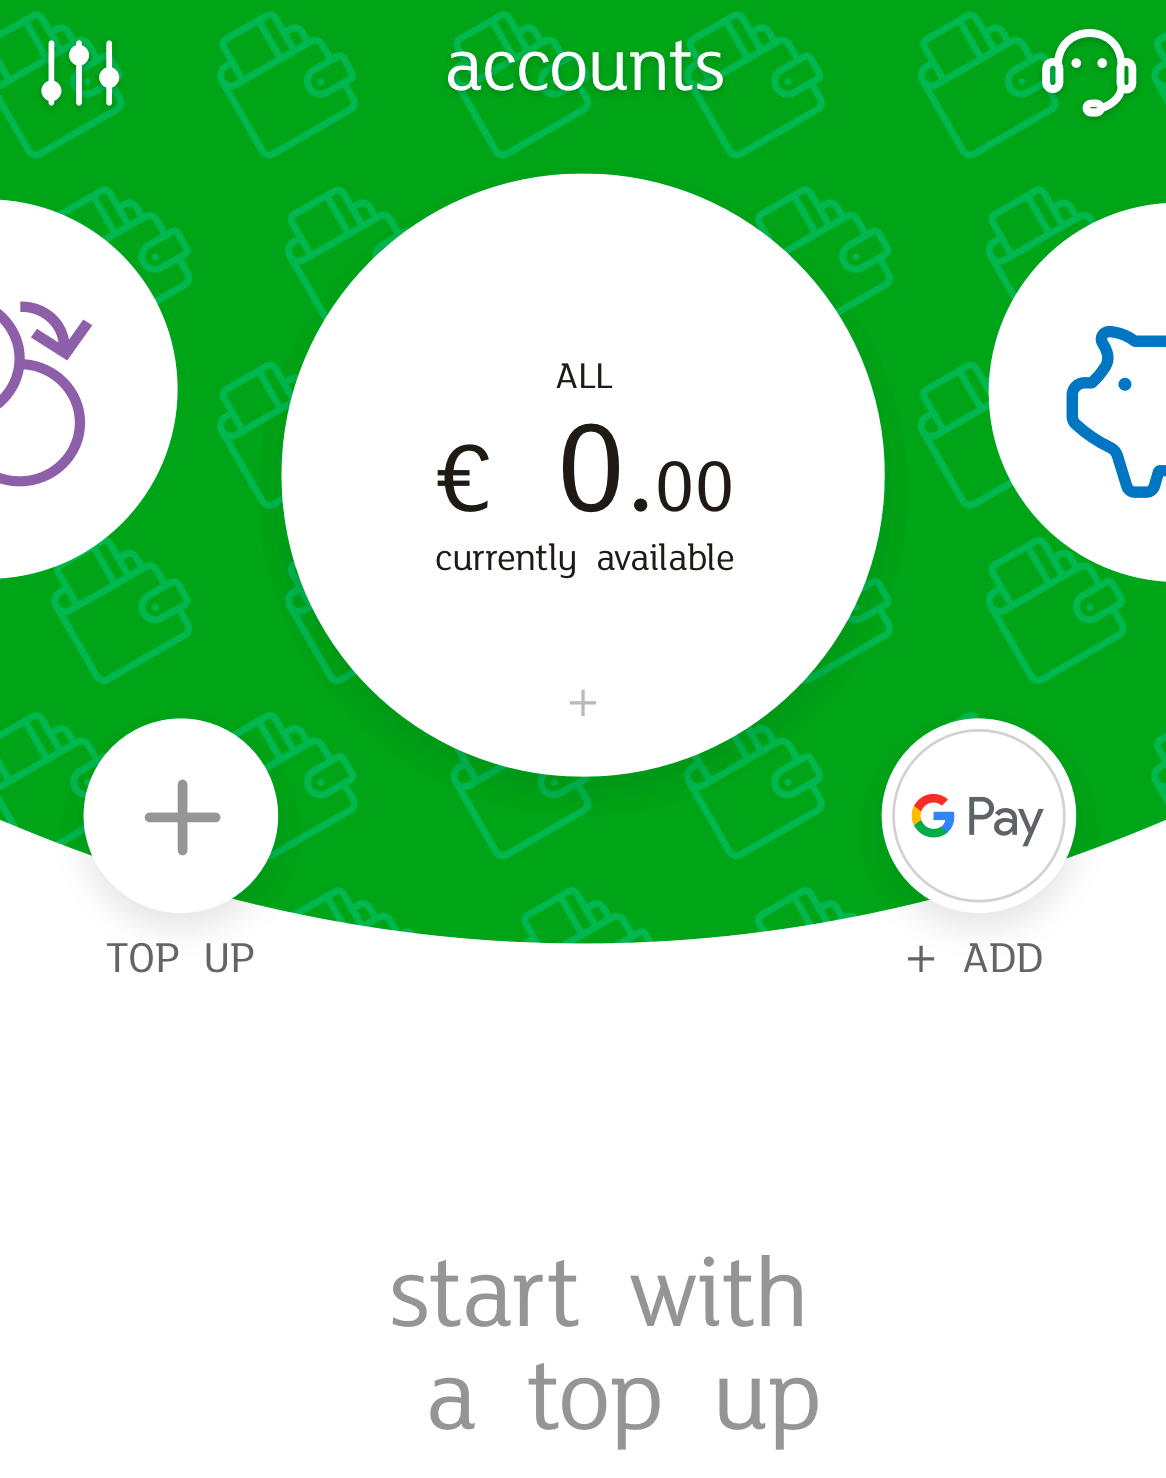
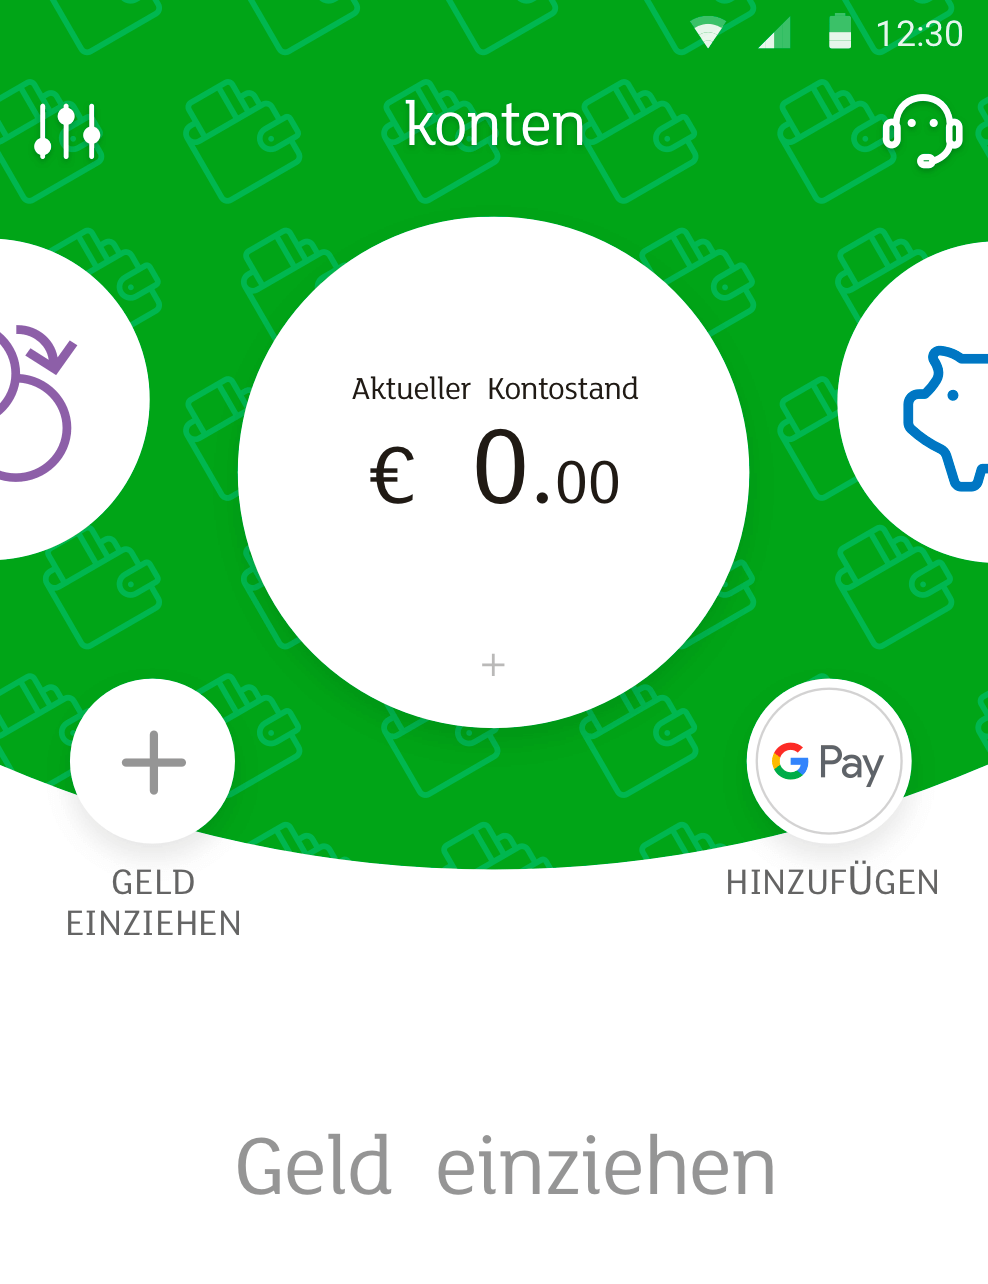
Last (?) fixes

diff --git a/src/text/german.js b/src/text/german.js
@@ -5,8 +5,8 @@ export default {
     skip: 'Überspringen',
     okay: 'Okay',
     residentialAddress: 'Wohnanschrift',
-    correspondenceAddress: 'Korrespondenzanschrift',
-    phoneNumber: 'Telefonnummer',
+    correspondenceAddress: 'Abweichende Postadresse',
+    phoneNumber: 'Handynummer',
     emailAddress: 'E-Mail Adresse',
     birthDate: 'Geburtsdatum',
     birthPlace: 'Geburtsort',
@@ -27,7 +27,7 @@ export default {
     germany: 'Deutschland',
     continue: 'Fortsetzen',
     thanks: 'Danke!',
-    start: 'Lasst uns anfangen!',
+    start: 'Lass uns anfangen!',
     read: 'Lesen',
     enter: 'Eingeben',
     validationCode: 'Validierungscode'
@@ -58,7 +58,7 @@ export default {
     },
     step1: {
       intro: {
-        0: 'Eröffne dein Meine Finanzen  Konto in 3 einfachen Schritten und beginne mit…'
+        0: 'Eröffne dein Meine Finanzen Konto in 3 einfachen Schritten und beginne mit…'
       },
       name: {
         0: 'Bitte erzähle uns etwas über dich',
@@ -71,7 +71,7 @@ export default {
       },
       contact: {
         0: 'Wir benötigen deine Kontaktinformationen',
-        1: 'Deine Telefonnummer und E-Mail Adresse werden für die Registrierung gebraucht'
+        1: 'Deine Handynummer und E-Mail Adresse werden für die Registrierung benötigt'
       },
       birth: {
         0: 'Bitte gib folgende Daten ein…',
@@ -84,7 +84,7 @@ export default {
         4: 'Hausnummer'
       },
       correspondenceAddress: {
-        0: 'Füge deine Korrespondenzanschrift hinzu'
+        0: 'Füge (falls notwendig) eine abweichende Postadresse hinzu'
       },
       taxInformation: {
         0: 'Möchtest du deine Steuerinformationen angeben?',
@@ -98,14 +98,14 @@ export default {
         0: 'Was machst du beruflich?',
         1: 'Wir müssen dir die Frage erneut aus rechtlichen Gründen stellen',
         2: 'Wähle deinen derzeit ausgeübten Beruf aus',
-        3: 'und in welcher Branche arbeitest du',
+        3: 'und in welcher Branche arbeitest du?',
         roles: ['Geschäftsstellenleiter', 'Creative director', 'Produktmanager']
       },
       industry: {
         0: 'In welcher Branche arbeitest du?',
         1: 'Das ist die letzte Frage!',
         2: '+ Weitere Optionen',
-        3: 'Wir benötigen dies aus rechtlichen Gründen',
+        3: 'Wir benötigen diese Information aus rechtlichen Gründen',
         industries: ['Keine Angabe', 'Finanzen', 'Fertigungsindustrie', 'Tourismus']
       },
       review: {
@@ -121,11 +121,11 @@ export default {
         6: 'Datenschutz-Grundverordnung'
       },
       finish: {
-        0: 'Geschafft! Lass und jetzt dein Meine Finanzen  Konto eröffnen!',
+        0: 'Geschafft! Lass und jetzt dein Meine Finanzen Konto eröffnen!',
         1: 'Unten findest du den Link zu deinem Kontovertrag.',
         2: 'Du musst ihn jetzt nicht herunterladen, wir haben ihn dir bereits per E-Mail geschickt',
         3: 'Lade den kompletten Meine Finanzen Kontovertrag herunter (PDF)',
-        4: 'Ich möchte ein Meine Finanzen  Konto eröffnen und bestätige, dass ich <em>für mich selbst handle</em>'
+        4: 'Ich möchte ein Meine Finanzen Konto eröffnen und bestätige, dass ich <em>für mich selbst handle</em>'
       }
     },
     step2: {
@@ -140,27 +140,27 @@ export default {
       },
       connecting: {
         0: 'Bitte warte einen Moment',
-        1: 'Wir stellen die Verbindung mit einem/einer unserer Berater(innen) her'
+        1: 'Wir stellen die Verbindung mit einem/einer unserer Experten her'
       },
       waiting: {
         0: 'Bitte warte einen Moment'
       },
       conversation: {
         0: 'Name und Foto',
-        1: 'Bitte schauen Sie in die Kamera und sagen Ihren Vor und Nachname.',
+        1: 'Bitte schaue in die Kamera und sage deinen Vor- und Nachnamen.',
         2: 'Vorderseite des Personalausweises',
-        3: 'Bitte halten sie die Vorderseite des Personalausweises in die Kamera, damit wir die Details lesen können.',
+        3: 'Bitte halte die Vorderseite des Personalausweises in die Kamera, damit wir die Details lesen können.',
         4: 'Rückseite des Personalausweises',
-        5: 'Bitte halten sie die Rückseite des Personalausweises in die Kamera, damit wir die Details lesen können.',
+        5: 'Bitte halte die Rückseite des Personalausweises in die Kamera, damit wir die Details lesen können.',
         6: 'Einen Moment bitte…',
-        7: 'Bitte warten sie kurz, da ein Experte deine Daten checkt.'
+        7: 'Bitte warte kurz, da ein Experte deine Daten checkt.'
       },
       smsCode: {
         0: 'Dein Validierungscode lautet {code}',
         1: 'SMS Code',
-        2: 'Abschließend musst du den Ident Code eingeben. Dieser Code wird als SMS an ihre Nummer geschickt.',
-        3: 'Haben sie die SMS erhalten?',
-        4: 'Wir können diesen Code nochmal schicken'
+        2: 'Abschließend musst du den Ident Code eingeben. Dieser Code wird als SMS an deine Nummer geschickt.',
+        3: 'Hast du die SMS erhalten?',
+        4: 'Wir können dir diesen Code nochmal schicken'
       },
       accountReady: {
         0: 'Dein neues Meine Finanzen Konto ist eröffnet!',
@@ -187,7 +187,7 @@ export default {
       passwordSetup: {
         title: 'Passwort Einstellungen',
         0: 'Wir benötigen deine Kontaktinformationen',
-        1: 'Du benötigst dieses Passwort um dich in deinen Account einzuloggen. Für eine sichere Passwortstärke verwendest du am besten mindestens 6 Buchstaben, einer davon sollte groß sein, Zeichen und Zahlen'
+        1: 'Du benötigst dieses Passwort, um dich in deinen Account einzuloggen. Für eine sichere Passwortstärke verwendest du am besten mindestens 6 Buchstaben, einer davon sollte groß sein, Sonderzeichen und Zahlen'
       },
       emailConfirm: {
         title: 'E-Mail Bestätigung',
@@ -201,27 +201,27 @@ export default {
       0: 'Persönliche Informationen',
       1: 'Video Identifikation',
       2: 'Kontoeröffnung',
-      3: 'Profil einsetzen',
+      3: 'Gesichtserkennung',
       4: 'Glückwunsch!'
     },
     other: {
       0: 'Eröffne das Konto in 8 Minuten!',
-      1: 'Gebe den 6-stelligen Code ein',
-      2: 'Wir haben es an folgende {phoneNumber} geschickt',
-      3: 'Warten sie {time} und wenn der Code nicht ankommt, senden wir ihnen einen neuen.',
+      1: 'Gib den 6-stelligen Code ein',
+      2: 'Wir haben ihn dir an folgende Handynummer {phoneNumber} geschickt',
+      3: 'Warte {time} und wenn der Code nicht ankommt, senden wir ihn dir erneut.',
       4: 'Code nochmal senden',
-      5: 'Bestätigen und Paaren',
+      5: 'Bestätigen',
       6: 'Zustimmung zur Datenverarbeitung',
-      7: 'Dies ist notwendig um ihnen den besten Service auch im Zusammenhang mit europäischen Gesetzen zu bieten',
+      7: 'Dies ist notwendig um dir den besten Service auch im Zusammenhang mit europäischen Gesetzen zu bieten',
       8: 'Bestätigung Marketing',
-      9: 'So bekommen Sie hochwertige Werbung ohne nötigen Spam!',
-      10: 'Um sicher zu sein, dass Sie sich am richtigen Ort eingeloggt werden Sie an Ihrem Profilbild erkannt.',
+      9: 'So erhälst du passende Werbung und keinen unnötigen Spam!',
+      10: 'Nehme nun ein Foto auf, damit du dich in Zukunft mittels Gesichtserkennung einloggen kannst.',
       11: 'Bitte lächeln!',
-      12: '{userName}, Ihr Mein Finanzen Konto ist jetzt bereit!',
-      13: 'Ihre Mastercard-Bankkarte ist  nun unterwegs zur Adresse, die Sie angegeben haben',
+      12: '{userName} Dein Mein Finanzen Konto ist jetzt bereit!',
+      13: 'Deine Mastercard-Bankkarte ist unterwegs zu der von die angegebenen Adresse',
       14: 'Los!',
       15: '{userName}, bevor wir anfangen',
-      16: 'Wählen Sie das Ausstellerland Ihres Ausweises'
+      16: 'Wähle das Ausstellerland deines Ausweises aus'
     }
   }
 }

diff --git a/src/text/english.js b/src/text/english.js
@@ -22,8 +22,8 @@ export default {
     confirmPassword: 'Confirm password',
     deny: 'Deny',
     allow: 'Allow',
-    allowLocation: 'Allow MeineFinanzen to access this device’s location?',
-    allowCamera: 'Allow MeineFinanzen app to take pictures and record video?',
+    allowLocation: 'Allow Meine Finanzen to access this device’s location?',
+    allowCamera: 'Allow Meine Finanzen app to take pictures and record video?',
     germany: 'Germany',
     continue: 'Continue',
     thanks: 'Thanks!',
@@ -40,7 +40,7 @@ export default {
     },
     usp: {
       0: 'Transfer money for free worldwide',
-      1: 'Send money abroad for free in realtime with MeineFinanzen. Transfer money to any bank, business or friend immediately.',
+      1: 'Send money abroad for free in realtime with Meine Finanzen. Transfer money to any bank, business or friend immediately.',
       2: 'ATM for free worldwide',
       3: 'Up to 500 Euro you can take cash from ATM for free in any country.',
       4: 'Multicurrency contactless',
@@ -58,7 +58,7 @@ export default {
     },
     step1: {
       intro: {
-        0: 'Get your new MeineFinanzen account in only 3 simple steps and start with…'
+        0: 'Get your new Meine Finanzen account in only 3 simple steps and start with…'
       },
       name: {
         0: 'Please tell us something about yourself',
@@ -115,17 +115,17 @@ export default {
         0: 'Almost done! Only a few consents left',
         1: 'Confirm all',
         2: 'Electronic communication',
-        3: 'Terms of Service of MeineFinanzen and IDNow',
-        4: 'Advertisement of MeineFinanzen partners',
+        3: 'Terms of Service of Meine Finanzen and IDNow',
+        4: 'Advertisement of Meine Finanzen partners',
         5: 'Data processing and usage',
         6: 'General Data Protection Regulation'
       },
       finish: {
-        0: 'Finally, let’s open your MeineFinanzen account!',
+        0: 'Finally, let’s open your Meine Finanzen account!',
         1: 'Below is a link to the contract.',
         2: 'But you don’t need to download it now, as we already sent it to you by email.',
-        3: 'Download the full MeineFinanzen Account Contract (PDF)',
-        4: 'I want to open an MeineFinanzen account and confirm that I act on <em>my own behalf</em>'
+        3: 'Download the full Meine Finanzen Account Contract (PDF)',
+        4: 'I want to open an Meine Finanzen account and confirm that I act on <em>my own behalf</em>'
       }
     },
     step2: {
@@ -163,7 +163,7 @@ export default {
         4: 'We can send it again'
       },
       accountReady: {
-        0: 'Your new MeineFinanzen account is ready!',
+        0: 'Your new Meine Finanzen account is ready!',
         1: 'Forward account data',
         2: 'IBAN',
         3: 'DE12 1234 5678 9876 54',
@@ -217,7 +217,7 @@ export default {
       9: 'Thanks to these we will be able to provide you with better quality of advertising, without irritation and unnecessary spam!',
       10: 'To be sure that you log in to the right place, you will recognize it with your profile pic.',
       11: 'Don’t forget to smile!',
-      12: '{userName} your MeineFinanzen account is ready to use!',
+      12: '{userName} your Meine Finanzen account is ready to use!',
       13: 'Your MasterCard Debit PayPass card is on its way to the address provided in the form',
       14: "Let's go there!",
       15: '{userName}, before we start',

diff --git a/src/pages/onboarding-2/FinishPage.js b/src/pages/onboarding-2/FinishPage.js
@@ -1,4 +1,4 @@
-import React, { Component } from 'react'
+import React from 'react'
 import styled from 'styled-components'
 import { Div } from 'styled-kit'
 
@@ -12,36 +12,28 @@ import pattern from 'assets/2/background-pattern.svg'
 import cardSample from 'assets/2/card-sample.svg'
 import photoPreview from 'assets/2/photo-preview.png'
 
-class FinishPage extends Component {
-  state = {}
+const FinishPage = ({ texts, history }) => (
+  <Background flex={1} column itemsCenter padding="110px 16px 32px">
+    <Photo src={photoPreview} alt="" />
 
-  render() {
-    const { texts } = this.props
+    <Title
+      dangerouslySetInnerHTML={{
+        __html: parseValues(texts.onboarding2.other[12], {
+          userName: `<strong>${sessionStorage.getItem('firstName')} ${sessionStorage.getItem('lastName')}</strong>`
+        })
+      }}
+    />
 
-    return (
-      <Background flex={1} column itemsCenter padding="110px 16px 32px">
-        <Photo src={photoPreview} alt="" />
+    <Div listLeft={24} itemsStart mTop="auto">
+      <img src={cardSample} alt="" />
+      <H2 style={{ flex: 1 }}>{texts.onboarding2.other[13]}</H2>
+    </Div>
 
-        <Title
-          dangerouslySetInnerHTML={{
-            __html: parseValues(texts.onboarding2.other[12], {
-              userName: `<strong>${sessionStorage.getItem('firstName')} ${sessionStorage.getItem('lastName')},</strong>`
-            })
-          }}
-        />
-
-        <Div listLeft={24} itemsStart mTop="auto">
-          <img src={cardSample} alt="" />
-          <H2 style={{ flex: 1 }}>{texts.onboarding2.other[13]}</H2>
-        </Div>
-
-        <Button onClick={() => this.props.history.push('/dashboard')} style={{ marginTop: 37 }} secondary>
-          {texts.onboarding2.other[14]}
-        </Button>
-      </Background>
-    )
-  }
-}
+    <Button onClick={() => history.push('/onboarding-2/dashboard')} style={{ marginTop: 37 }} secondary>
+      {texts.onboarding2.other[14]}
+    </Button>
+  </Background>
+)
 
 export default withTexts(FinishPage)
 

diff --git a/src/components/App.js b/src/components/App.js
@@ -41,7 +41,7 @@ import DashboardPage from 'pages/onboarding-2/DashboardPage'
 // 404
 import NotFoundPage from 'pages/NotFoundPage'
 
-const VERSION = 'v1.0.2'
+const VERSION = 'v1.0.3'
 
 const childFactoryCreator = classNames => child => React.cloneElement(child, { classNames })
 
@@ -165,7 +165,7 @@ class App extends Component {
                   <PrivateRoute path="/onboarding-2/step-3" isRestricted={!loggedIn} component={Step3Page2} />
                   <PrivateRoute path="/onboarding-2/step-4" isRestricted={!loggedIn} component={Step4Page2} />
                   <PrivateRoute path="/onboarding-2/finish" isRestricted={!loggedIn} component={FinishPage2} />
-                  <PrivateRoute path="/dashboard" isRestricted={!loggedIn} component={DashboardPage} />
+                  <PrivateRoute path="/onboarding-2/dashboard" isRestricted={!loggedIn} component={DashboardPage} />
                 </Switch>
               </CSSTransition>
             </TransitionGroup>

diff --git a/src/pages/onboarding-2/FirstLoginPage.js b/src/pages/onboarding-2/FirstLoginPage.js
@@ -228,7 +228,7 @@ class FirstLoginPage extends Component {
           flex="none"
           style={{ transition: '0.3s', opacity: pinIsValid ? 0 : 1, pointerEvents: pinIsValid && 'none' }}
         >
-          <Paragraph center maxWidth={170}>
+          <Paragraph center maxWidth={280}>
             {parseValues(texts.onboarding2.other[3], {
               time: '0:' + (this.state.resendTime < 10 ? `0${this.state.resendTime}` : this.state.resendTime)
             })}

diff --git a/src/pages/onboarding-2/UspPage.js b/src/pages/onboarding-2/UspPage.js
@@ -60,9 +60,8 @@ class UspPage extends PureComponent {
 
   handleButtonClick = () => {
     if (this.state.currentSlide === 4) {
-      this.setState({ show: false }, () => {
+      return this.setState({ show: false }, () => {
         this.timeout = setTimeout(() => this.props.history.push('/onboarding-2/first-login/phone-number'), 500)
-        return
       })
     }
 

diff --git a/public/index.html b/public/index.html
@@ -12,7 +12,7 @@
     <link rel="mask-icon" href="%PUBLIC_URL%/safari-pinned-tab.svg" color="#ffc40d">
     <meta name="msapplication-TileColor" content="#ffc40d">
     <meta name="theme-color" content="#ffffff">
-    <title>MeineFinanzen Onboarding Demo</title>
+    <title>Meine Finanzen Onboarding Demo</title>
   </head>
   <body>
     <noscript>

diff --git a/src/components/SmsDialog.js b/src/components/SmsDialog.js
@@ -16,7 +16,7 @@ const SmsDialog = ({ pin, isVisible, withDash, texts, ...props }) => {
         <Avatar>me</Avatar>
 
         <Div column mLeft={12}>
-          <Title>MeineFinanzen</Title>
+          <Title>Meine Finanzen</Title>
 
           <Subtitle>
             {parseValues(texts.onboarding1.step2.smsCode[0], {

diff --git a/src/pages/onboarding-2/DashboardPage.js b/src/pages/onboarding-2/DashboardPage.js
@@ -12,4 +12,5 @@ const Background = Div.extend`
   background-repeat: no-repeat;
   background-size: contain;
   background-position: center bottom, center top;
+  margin-bottom: 6px;
 `

diff --git a/src/routes/index.js b/src/routes/index.js
@@ -50,5 +50,5 @@ export default [
   '/onboarding-2/step-3',
   '/onboarding-2/step-4',
   '/onboarding-2/finish',
-  '/dashboard'
+  '/onboarding-2/dashboard'
 ]
